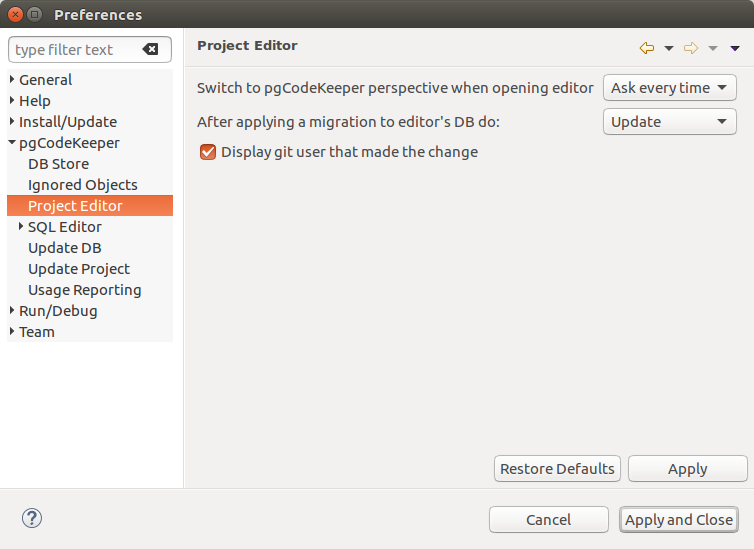
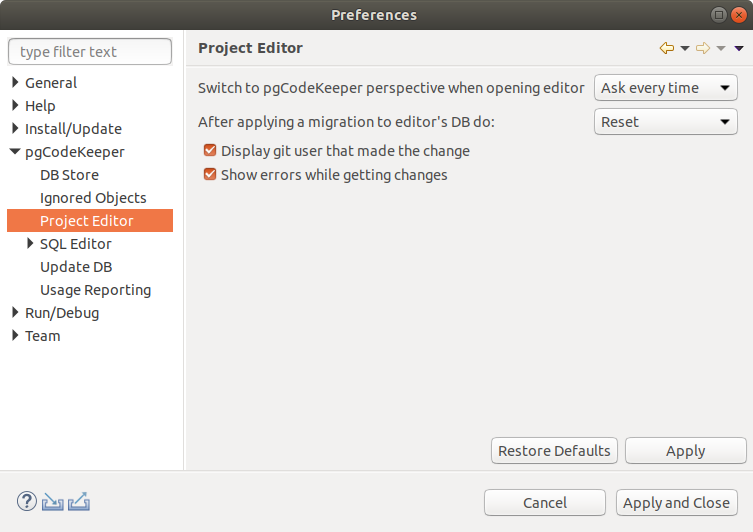
version 5.9.10

diff --git a/docs/conf.py b/docs/conf.py
@@ -53,7 +53,7 @@ copyright = u'2016, pgCodeKeeper'
 # The short X.Y version.
 version = '5.9'
 # The full version, including alpha/beta/rc tags.
-release = '5.9.9'
+release = '5.9.10'
 
 # The language for content autogenerated by Sphinx. Refer to documentation
 # for a list of supported languages.

diff --git a/docs/preferences.rst b/docs/preferences.rst
@@ -112,6 +112,8 @@
 - **Switch to pgCodeKeeper perspective when opening editor / Переключать в перспективу pgCodeKeeper при открытии редактора** – определяет поведение переключения перспективы при открытии редактора проекта. 
 - **After applying a migration to editor's DB do: / После выполнения миграции на БД редактора выполнить:** – определяет поведение редактора при накате скриптов миграции.
 - **Display git user that math the change / Отображать пользователя git, совершившего изменение** – позволяет отображать в редакторе колонку с пользователем git, совершившем последнее изменение файла. Проект должен находиться под системой контроля версий.
+- **Show errors while getting changes / Показывать ошибки во время получения изменений** – позволяет отображать список ошибок, найденных во время получения изменений.
+
 
 Редактор SQL 
 ~~~~~~~~~~~~
